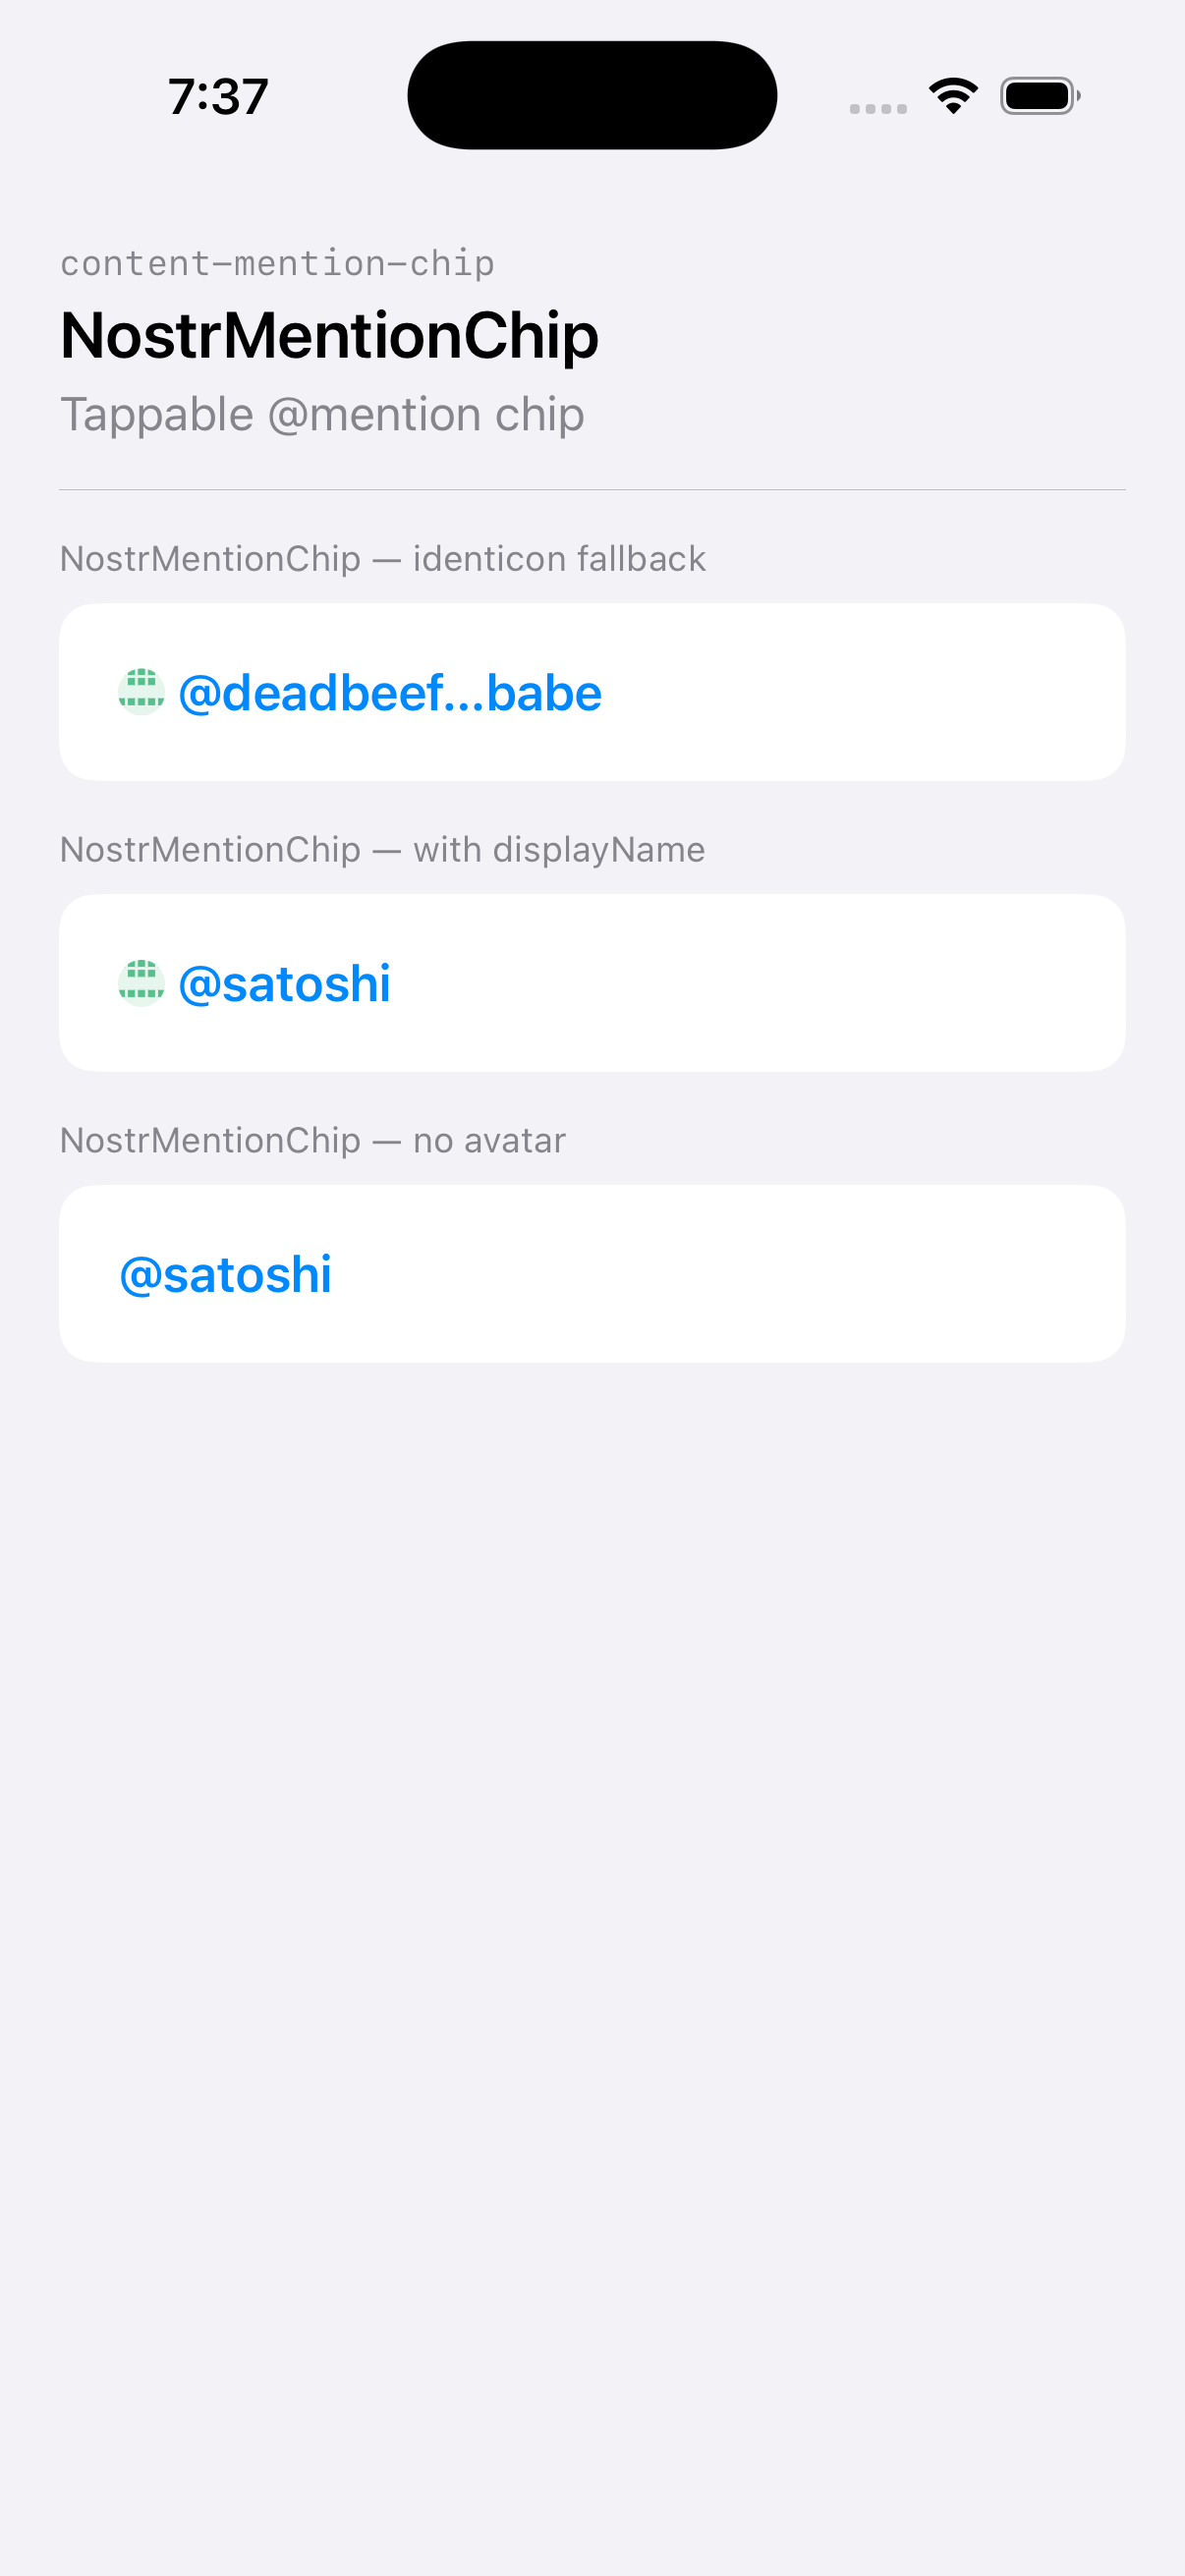
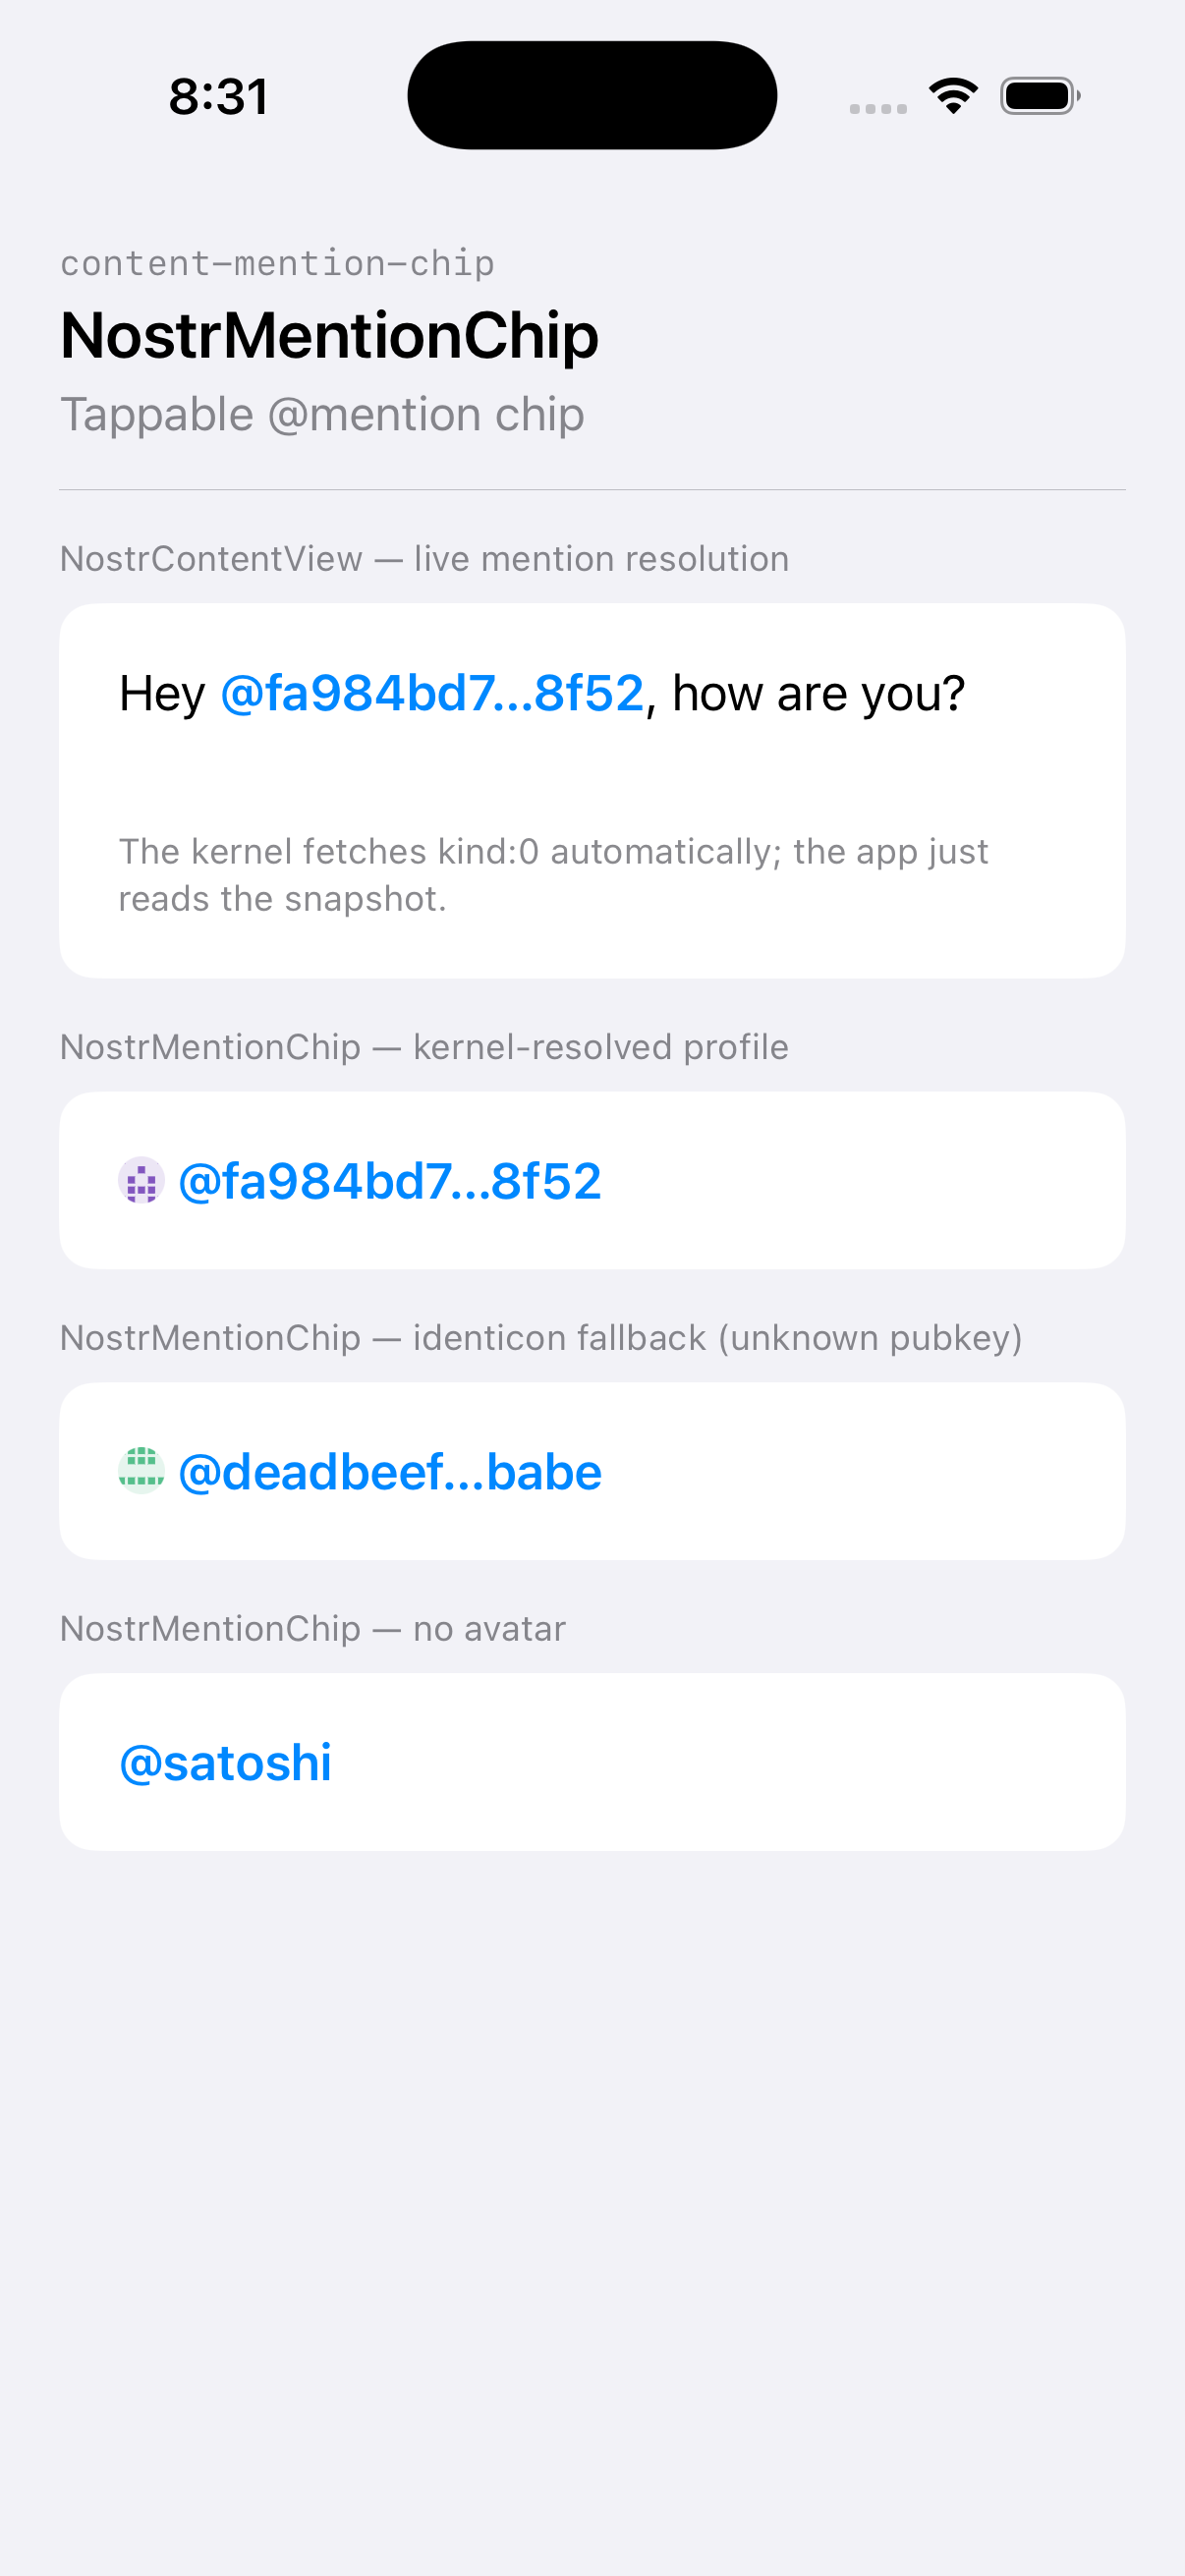
feat(nmp-gallery/ios): content-mention-chip shows live mention resolution via kernel kind:0 (#566)
The content-mention-chip page now demonstrates inline @user resolution
through a `NostrContentView` rendering "Hey @user, how are you?". The
mention node's `primaryId` is the demo pubkey already claimed at startup
in `GalleryModel.start()` via `nmp_app_claim_profile`; the `mentionLabel`
closure reads through `model.profile(forPubkey:)` so the label flips from
the hex fallback to the real display name automatically when the kernel
pushes the resolved `ProfileWire` through the update callback.

The standalone `NostrMentionChip` row beside it shows the same
kernel-resolved profile (with avatar URL when present), proving the
"app reads the snapshot; kernel does the fetch" contract. Original
identicon-fallback and no-avatar variants are kept for completeness.

The captured screenshot may show the unresolved hex fallback — profile
resolution from `wss://purplepag.es` is timing-sensitive in the sim;
the same pattern is visible in the existing `user-name` preview which
also captures a mid-flight `Loading profile from relays…` state.

diff --git a/apps/nmp-gallery/ios/NmpGallery/Gallery/ContentComponentPages.swift b/apps/nmp-gallery/ios/NmpGallery/Gallery/ContentComponentPages.swift
@@ -118,19 +118,68 @@ struct ContentViewPage: View {
 
 // MARK: - content-mention-chip
 
+/// Inline-mention demo: a `ContentTreeWire` that renders "Hey @pablof7z,
+/// how are you?". The mention node's `primaryId` is the demo pubkey
+/// (`DEMO_PUBKEY_HEX`) and the `mentionLabel` closure looks up the live
+/// kind:0 profile the kernel claimed at startup. On first render the
+/// display name may still be in flight; the view re-renders automatically
+/// when the kernel pushes the resolved `ProfileWire`.
+private enum MentionSample {
+    /// Arena layout:
+    ///   0  text "Hey "
+    ///   1  mention(pablof7z)
+    ///   2  text ", how are you?"
+    ///   3  paragraph(children: [0, 1, 2])
+    static var note: ContentTreeWire {
+        ContentTreeWire(
+            nodes: [
+                .text("Hey "),
+                .mention(
+                    NostrWireUri(
+                        uri: "nostr:npub1l2vyh47mk2p0qlsku7hg0vn29faehy9hy34ygaclpn66ukqp3afqutajft",
+                        kind: .profile,
+                        primaryId: DEMO_PUBKEY_HEX
+                    )
+                ),
+                .text(", how are you?"),
+                .paragraph(children: [0, 1, 2]),
+            ],
+            roots: [3],
+            mode: nil
+        )
+    }
+}
+
 struct ContentMentionChipPage: View {
+    @Environment(GalleryModel.self) private var model
+
     var body: some View {
+        let profile = model.profile(forPubkey: DEMO_PUBKEY_HEX)
         VStack(spacing: 16) {
-            ContentPageFrame(caption: "NostrMentionChip — identicon fallback") {
+            ContentPageFrame(caption: "NostrContentView — live mention resolution") {
+                NostrContentView(
+                    tree: MentionSample.note,
+                    mentionLabel: { uri in
+                        model.profile(forPubkey: uri.primaryId)?.displayName
+                            ?? NostrContentView.defaultMentionLabel(uri)
+                    }
+                )
+                Text("The kernel fetches kind:0 automatically; the app just reads the snapshot.")
+                    .font(.caption)
+                    .foregroundStyle(.secondary)
+                    .padding(.top, 4)
+            }
+            ContentPageFrame(caption: "NostrMentionChip — kernel-resolved profile") {
+                NostrMentionChip(
+                    pubkey: DEMO_PUBKEY_HEX,
+                    displayName: profile?.displayName,
+                    avatarUrl: profile?.avatarURL
+                )
+            }
+            ContentPageFrame(caption: "NostrMentionChip — identicon fallback (unknown pubkey)") {
                 NostrMentionChip(
                     pubkey: "deadbeefcafebabedeadbeefcafebabe",
                     displayName: nil
-                )
-            }
-            ContentPageFrame(caption: "NostrMentionChip — with displayName") {
-                NostrMentionChip(
-                    pubkey: "deadbeefcafebabedeadbeefcafebabe",
-                    displayName: "satoshi"
                 )
             }
             ContentPageFrame(caption: "NostrMentionChip — no avatar") {